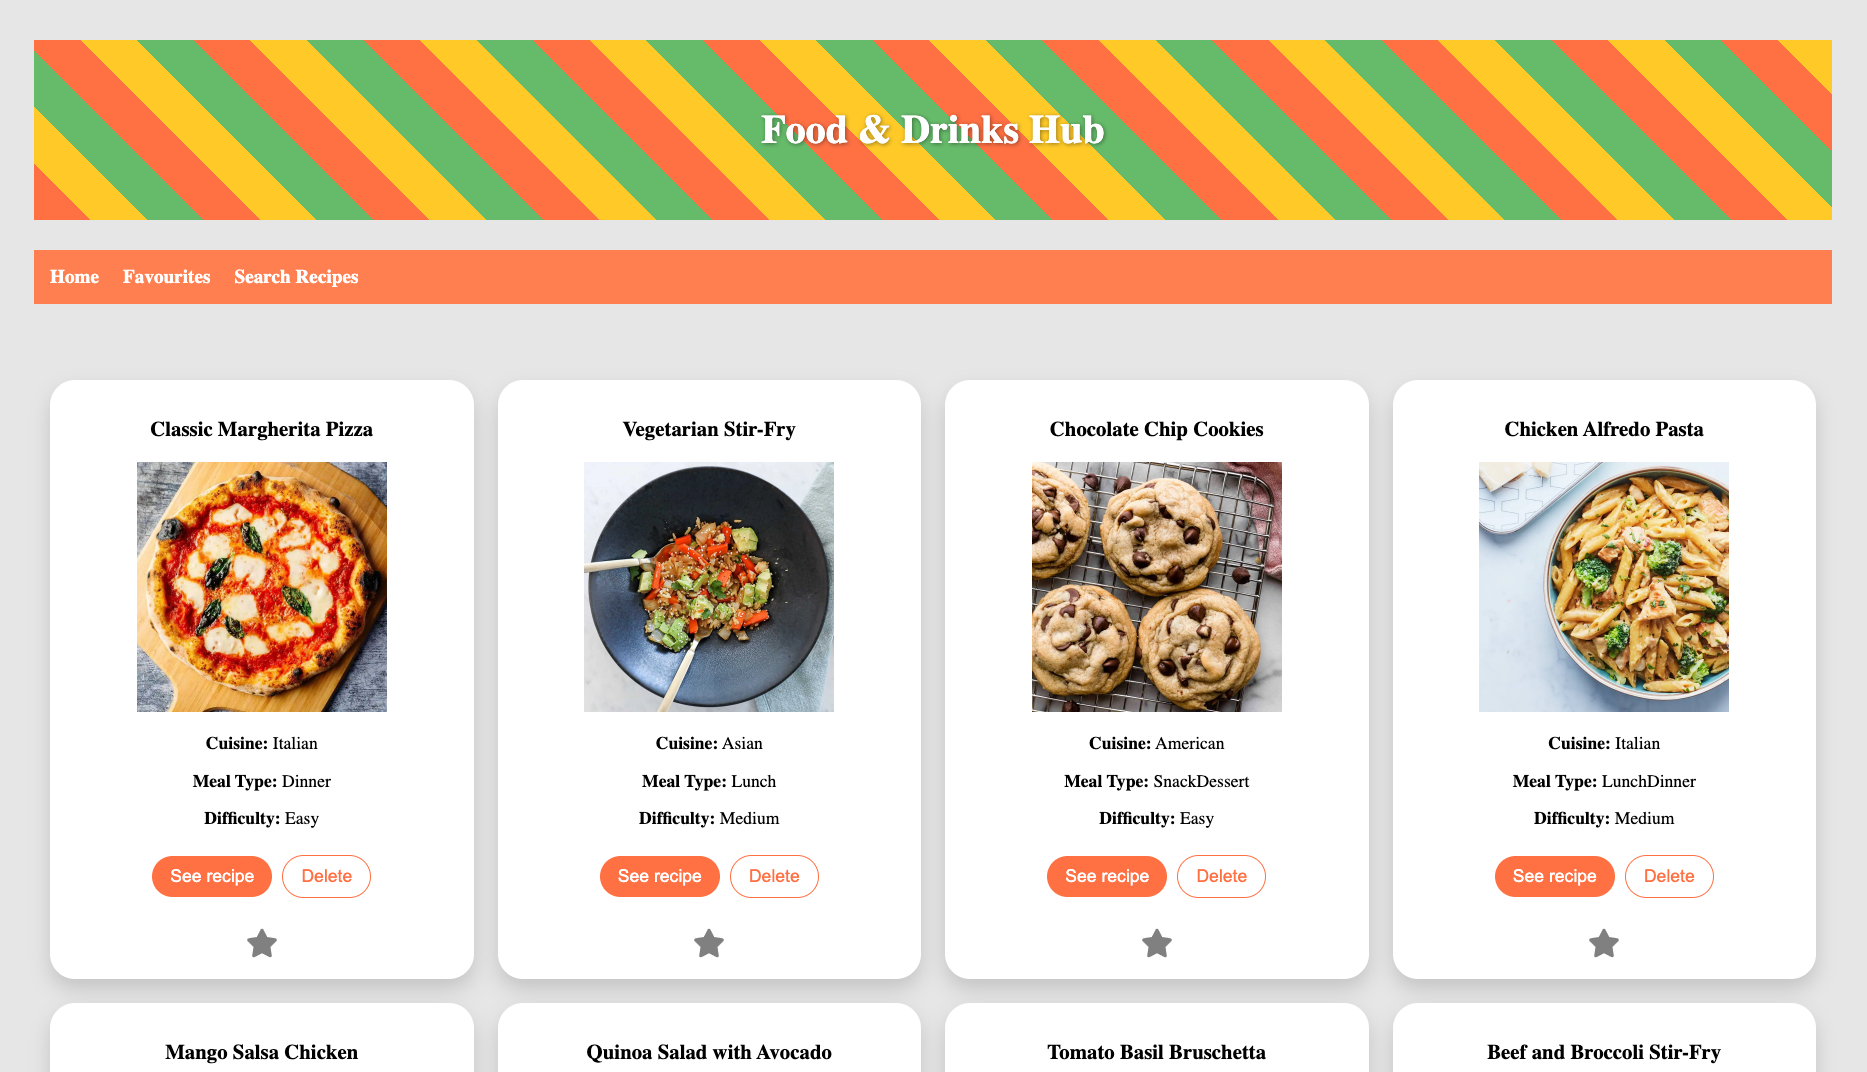
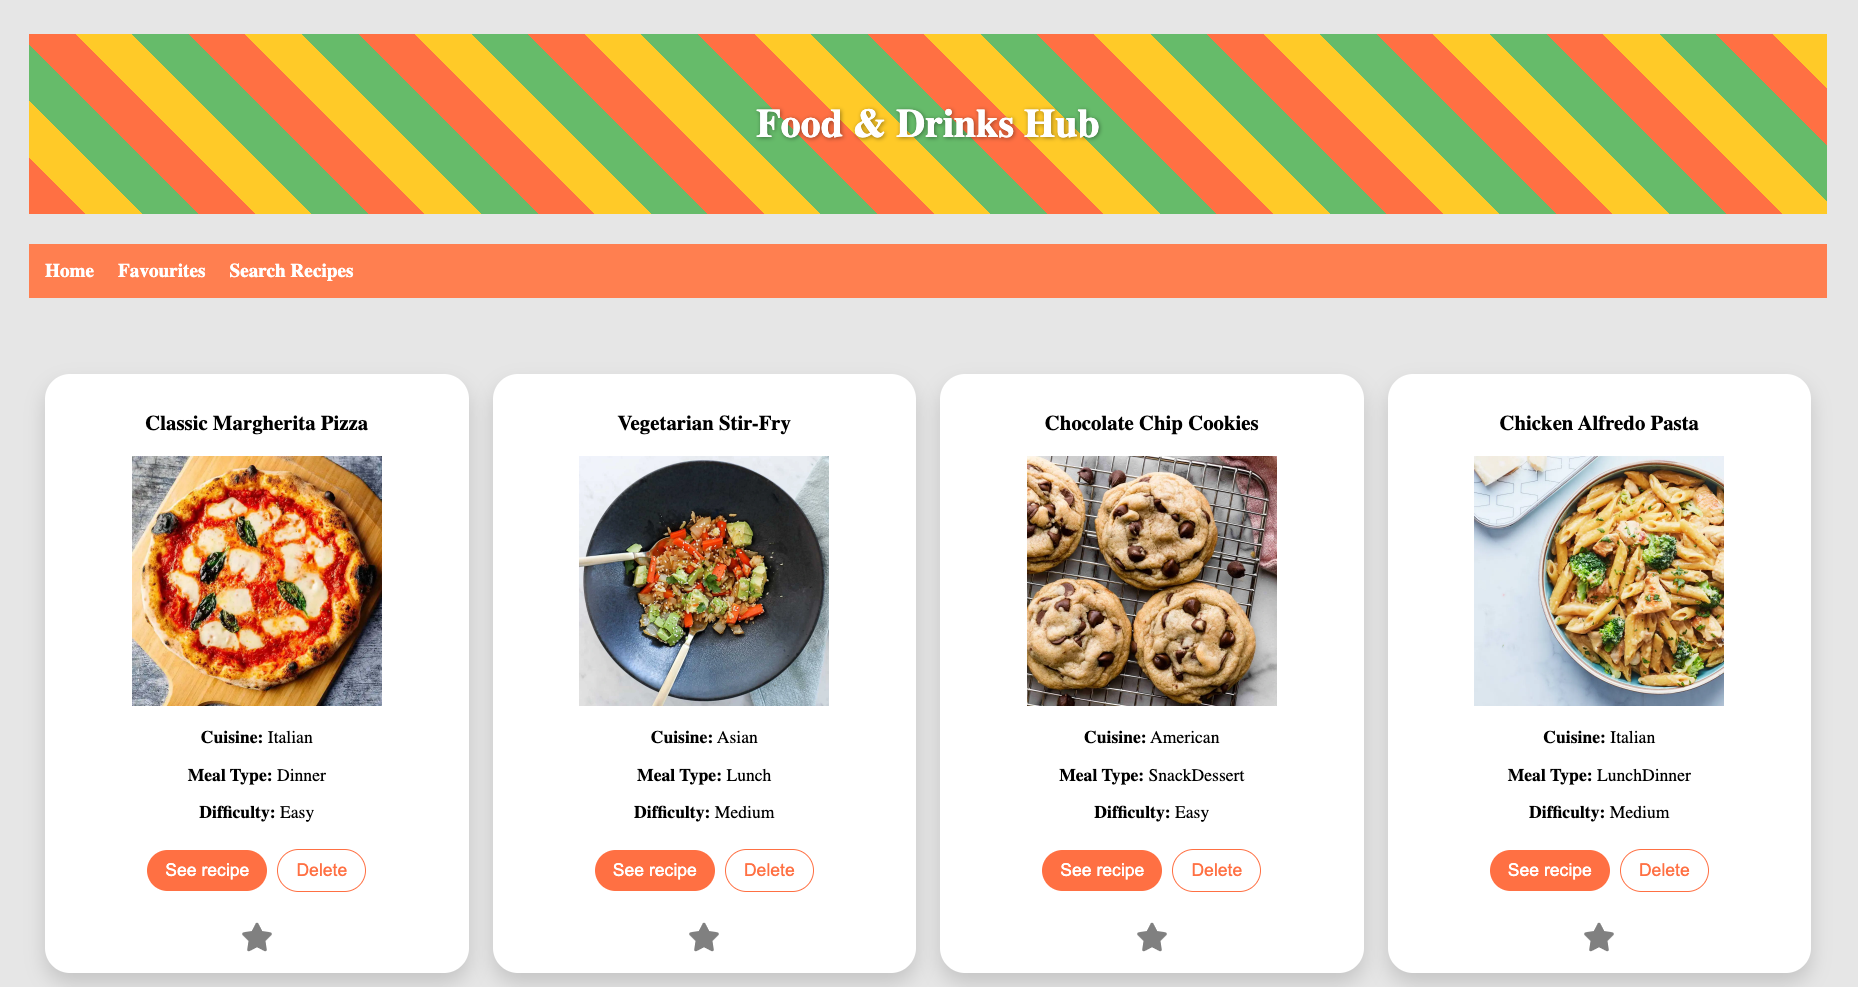
Adjust css of recipes project page

diff --git a/recipes.html b/recipes.html
@@ -79,13 +79,12 @@
             Dummy JSON API to get a dataset of sample recipe data and focused
             only on the front-end portion of the application.
           </p>
-          >
-          <p>Recipes - Docs: https://dummyjson.com/docs/recipes</p>
+          <p>Recipes API Doc: https://dummyjson.com/docs/recipes</p>
         </div>
       </div>
     </section>
 
-    <section class="login-section">
+    <section class="homepage-section">
       <div class="row align-items-center h-100 text-center login">
         <div class="col-md-5 offset-md-1">
           <img
@@ -104,7 +103,7 @@
       </div>
     </section>
 
-    <section class="search-section">
+    <section class="recipe-details-section">
       <div class="row align-items-center h-100 text-center search">
         <div class="col-md-5 offset-md-1">
           <p>
@@ -124,7 +123,7 @@
       </div>
     </section>
 
-    <section class="login-section">
+    <section class="favourite-section">
       <div class="row align-items-center h-100 text-center login">
         <div class="col-md-5 offset-md-1">
           <img
@@ -276,18 +275,18 @@
 
     <section class="responsive-img-section">
       <div class="row">
-        <div class="col-md-4 offset-md-2">
+        <div class="col-md-4 offset-md-1 mb-3">
           <img
             src="images/recipes/recipes_mobile.png"
             alt="Recipes Mobile"
-            class="d-block mx-auto img-h80"
+            class="d-block mx-auto img-w50"
           />
         </div>
-        <div class="col-md-4">
+        <div class="col-md-4 offset-md-1 mb-3">
           <img
             src="images/recipes/recipes_tablet.png"
             alt="Recipes Tablet"
-            class="d-block mx-auto img-h80"
+            class="d-block mx-auto img-w100"
           />
         </div>
       </div>
@@ -355,14 +354,6 @@
           </ul>
 
           <ul class="list-inline social-icons">
-            <li class="list-inline-item">
-              <a
-                href="https://twitter.com/analucia_chin?lang=en"
-                target="_blank"
-                rel="noopener noreferrer"
-                ><i class="fab fa-twitter" aria-hidden="true"></i>
-              </a>
-            </li>
             <li class="list-inline-item">
               <a
                 href="https://github.com/analuciachin"

diff --git a/css/style.css b/css/style.css
@@ -63,28 +63,29 @@ h2 {
 }
 
 h1 {
-  font-size: 300%;
+  font-size: 3.5rem;
   word-spacing: 4px;
   letter-spacing: 1px;
 }
 
 h2 {
-  font-size: 200%;
+  font-size: 3rem;
   word-spacing: 2px;
   letter-spacing: 1px;
 }
 
 h3 {
-  font-size: 100%;
+  font-size: 1.8rem;
+  line-height: 2.2rem;
 }
 
 /* --------- PARAGRAPH --------*/
 
 p {
-  font-size: 100%;
+  font-size: 1.4rem;
   word-spacing: 5px;
   letter-spacing: 2px;
-  line-height: 150%;
+  line-height: 2rem;
 }
 
 /* ------------------------------------------------------ */
@@ -503,6 +504,10 @@ footer p:last-of-type:hover {
   transition: filter 0.4s;
 }
 
+.img-w50 {
+  width: 50%;
+}
+
 .img-w80 {
   width: 80%;
 }
@@ -742,4 +747,37 @@ footer p:last-of-type:hover {
   .img-w100 {
     margin: 30px auto;
   }
+}
+
+/* ------------------------------------------------------ */
+/* PROJECTS */
+/* ------------------------------------------------------ */
+
+.homepage-section,
+.recipe-details-section,
+.favourite-section,
+.goal-section,
+.search-img-section,
+.recipes-lessons-section,
+.recipes-improvements-section {
+  padding: 80px 0;
+}
+
+.thought-section {
+  padding-top: 80px;
+}
+
+.responsive-img-section {
+  padding-bottom: 80px;
+}
+
+.homepage-section,
+.favourite-section {
+  background-color: #f7f7f7;
+}
+
+.recipe-details-section,
+.lessons-section,
+.improvements-section {
+  background-color: #fff;
 }
